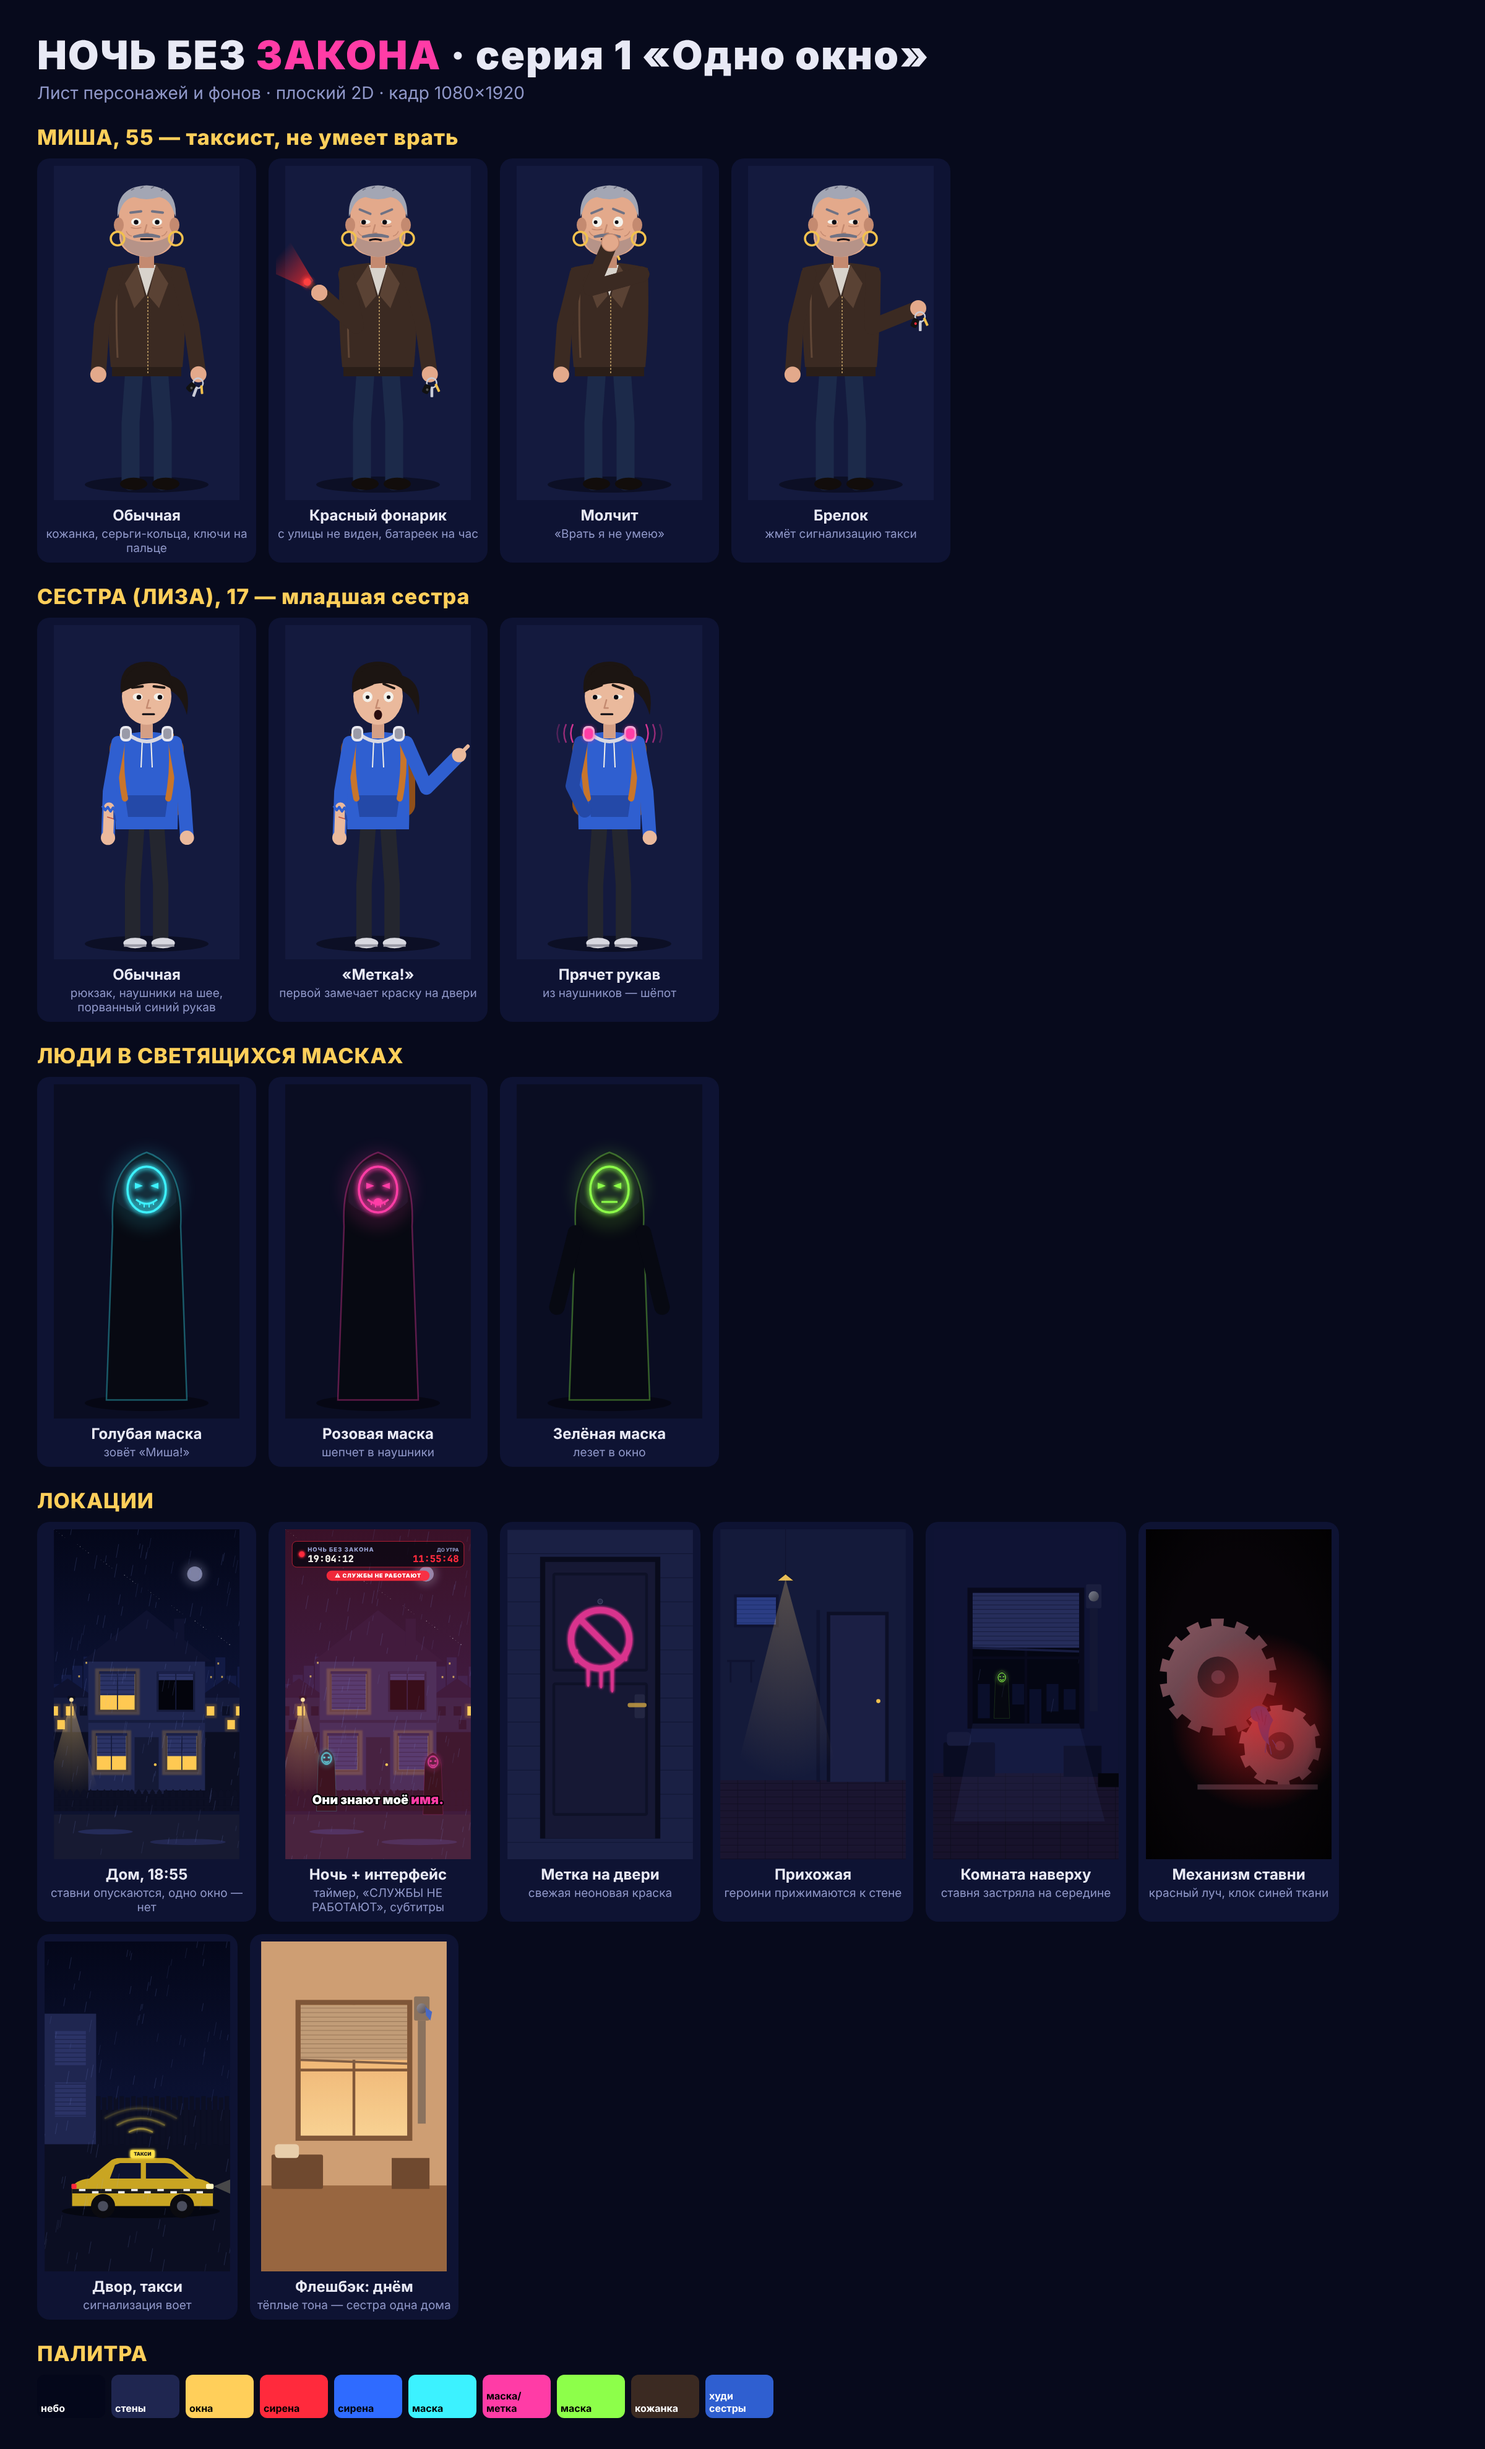
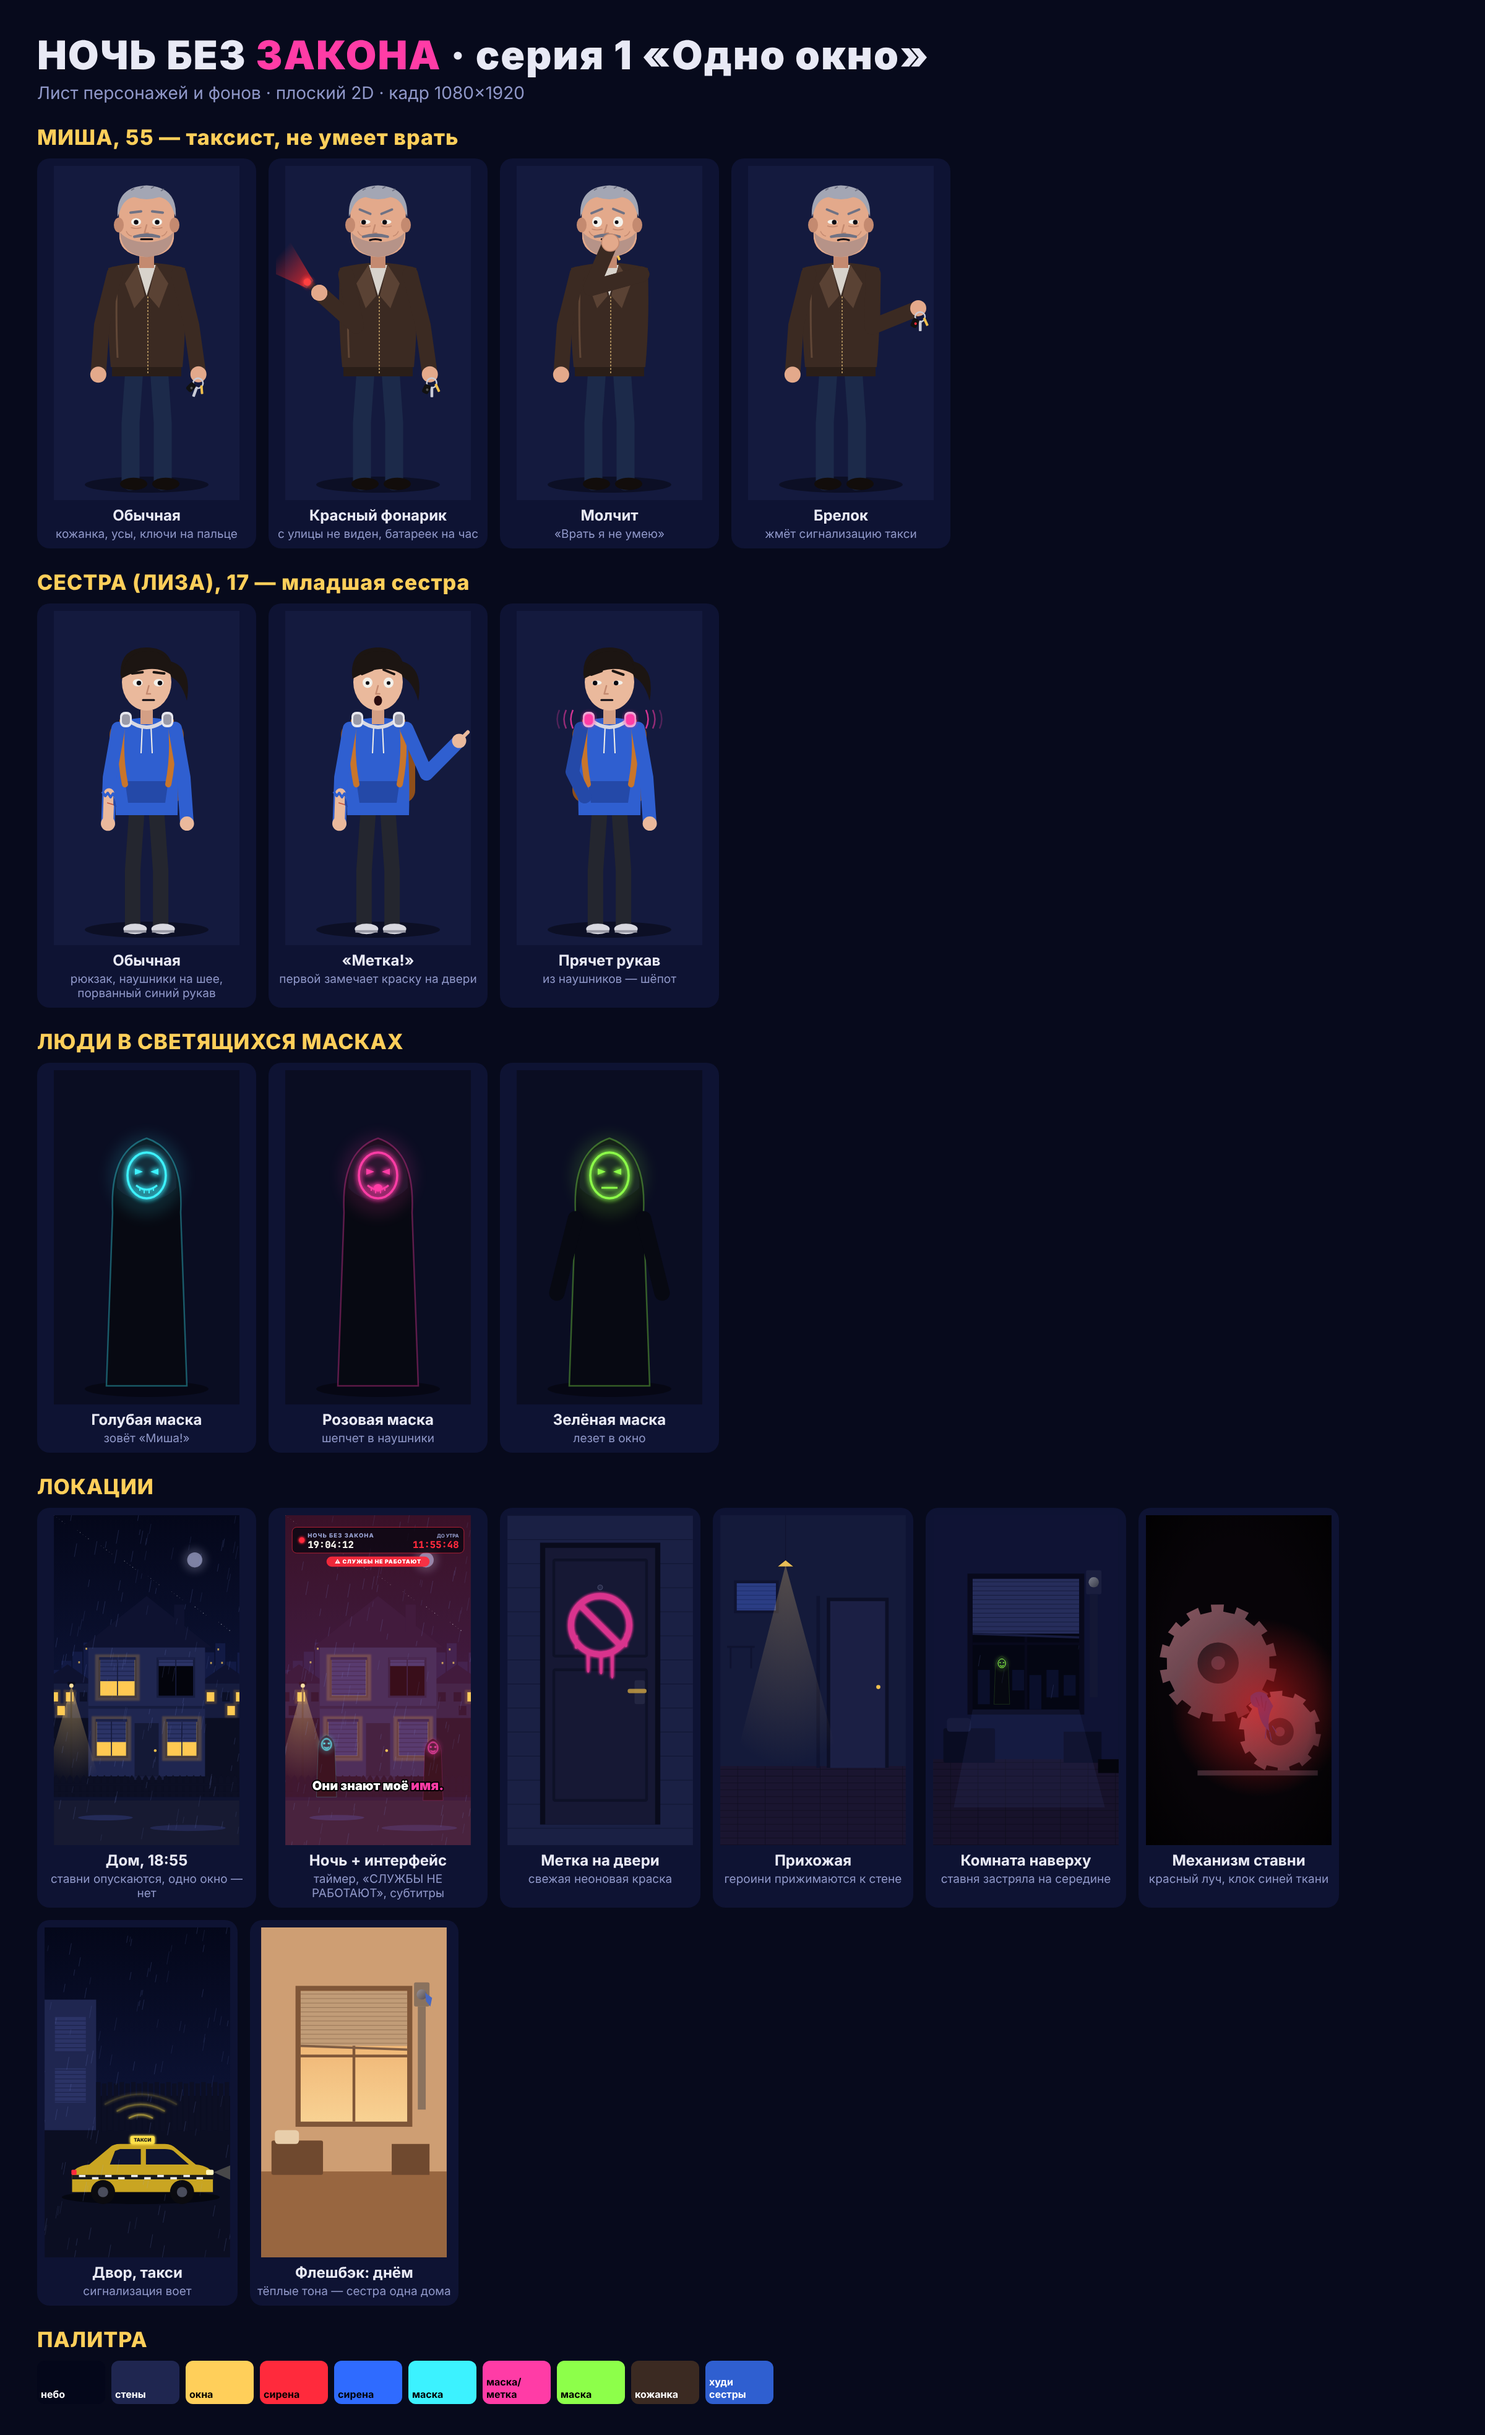
Миша без серёжек
Claude-Session: https://claude.ai/code/session_01Kmt8JVP99JxN1MhqiCgH5e

diff --git a/ep01/art/sheet.html b/ep01/art/sheet.html
@@ -15,7 +15,7 @@ const fig=(svg,label,note,bg='#141a3e')=>`<div class="card"><svg width="330" hei
 const bg=(svg,label,note)=>`<div class="card"><svg width="300" height="533" viewBox="0 0 1080 1920">${D}${svg}</svg><b>${label}</b><i>${note}</i></div>`;
 let h=`<h1>НОЧЬ БЕЗ <span>ЗАКОНА</span> · серия 1 «Одно окно»</h1><div class="sub">Лист персонажей и фонов · плоский 2D · кадр 1080×1920</div>`;
 h+=`<h2>МИША, 55 — таксист, не умеет врать</h2><div class="row">`;
-h+=fig(A.hero({keySpin:20}),'Обычная','кожанка, серьги-кольца, ключи на пальце');
+h+=fig(A.hero({keySpin:20}),'Обычная','кожанка, усы, ключи на пальце');
 h+=fig(A.hero({handL:[-190,-610],flash:'on',eyes:'narrow',brow:'angry',mouth:'tight',look:-14,beamLen:140,beamW:60}),'Красный фонарик','с улицы не виден, батареек на час');
 h+=fig(A.hero({handOnMouth:true,eyes:'wide',brow:'worried',look:-12}),'Молчит','«Врать я не умею»');
 h+=fig(A.hero({handR:[250,-560],fobPress:true,eyes:'narrow',brow:'angry',mouth:'tight',look:14,keySpin:0}),'Брелок','жмёт сигнализацию такси');

diff --git a/ep01/art/art.js b/ep01/art/art.js
@@ -130,7 +130,6 @@
     s += `<path d="M-90 ${hy - 40} Q-92 ${hy - 104} 0 ${hy - 108} Q92 ${hy - 104} 90 ${hy - 40} L88 ${hy + 50} Q80 ${hy + 104} 0 ${hy + 110} Q-80 ${hy + 104} -88 ${hy + 50}Z" fill="${P.skin}"/>`;
     s += `<path d="M-86 ${hy + 30} Q-82 ${hy + 102} 0 ${hy + 110} Q82 ${hy + 102} 86 ${hy + 30} Q60 ${hy + 60} 0 ${hy + 62} Q-60 ${hy + 60} -86 ${hy + 30}Z" fill="#6f7284" opacity="0.38"/>`; // щетина
     s += `<ellipse cx="-90" cy="${hy + 6}" rx="16" ry="24" fill="${P.skinShade}"/><ellipse cx="90" cy="${hy + 6}" rx="16" ry="24" fill="${P.skinShade}"/>`;
-    s += `<circle cx="-94" cy="${hy + 50}" r="22" fill="none" stroke="${P.gold}" stroke-width="7"/><circle cx="94" cy="${hy + 50}" r="22" fill="none" stroke="${P.gold}" stroke-width="7"/>`; // крупные серьги-кольца
     s += `<path d="M-94 ${hy - 20} Q-100 ${hy - 118} 0 ${hy - 122} Q100 ${hy - 118} 94 ${hy - 20} L84 ${hy - 46} Q70 ${hy - 80} 40 ${hy - 84} Q0 ${hy - 70} -40 ${hy - 84} Q-70 ${hy - 80} -84 ${hy - 46}Z" fill="${P.hairM}"/>`; // седой ёжик с залысинами
     s += `<path d="M-50 ${hy - 106} l10 -6 M-20 ${hy - 112} l10 -6 M14 ${hy - 112} l10 -6 M46 ${hy - 104} l10 -6" stroke="${P.hairMDark}" stroke-width="4"/>`;
     s += face(o, 0, hy, 'M');
